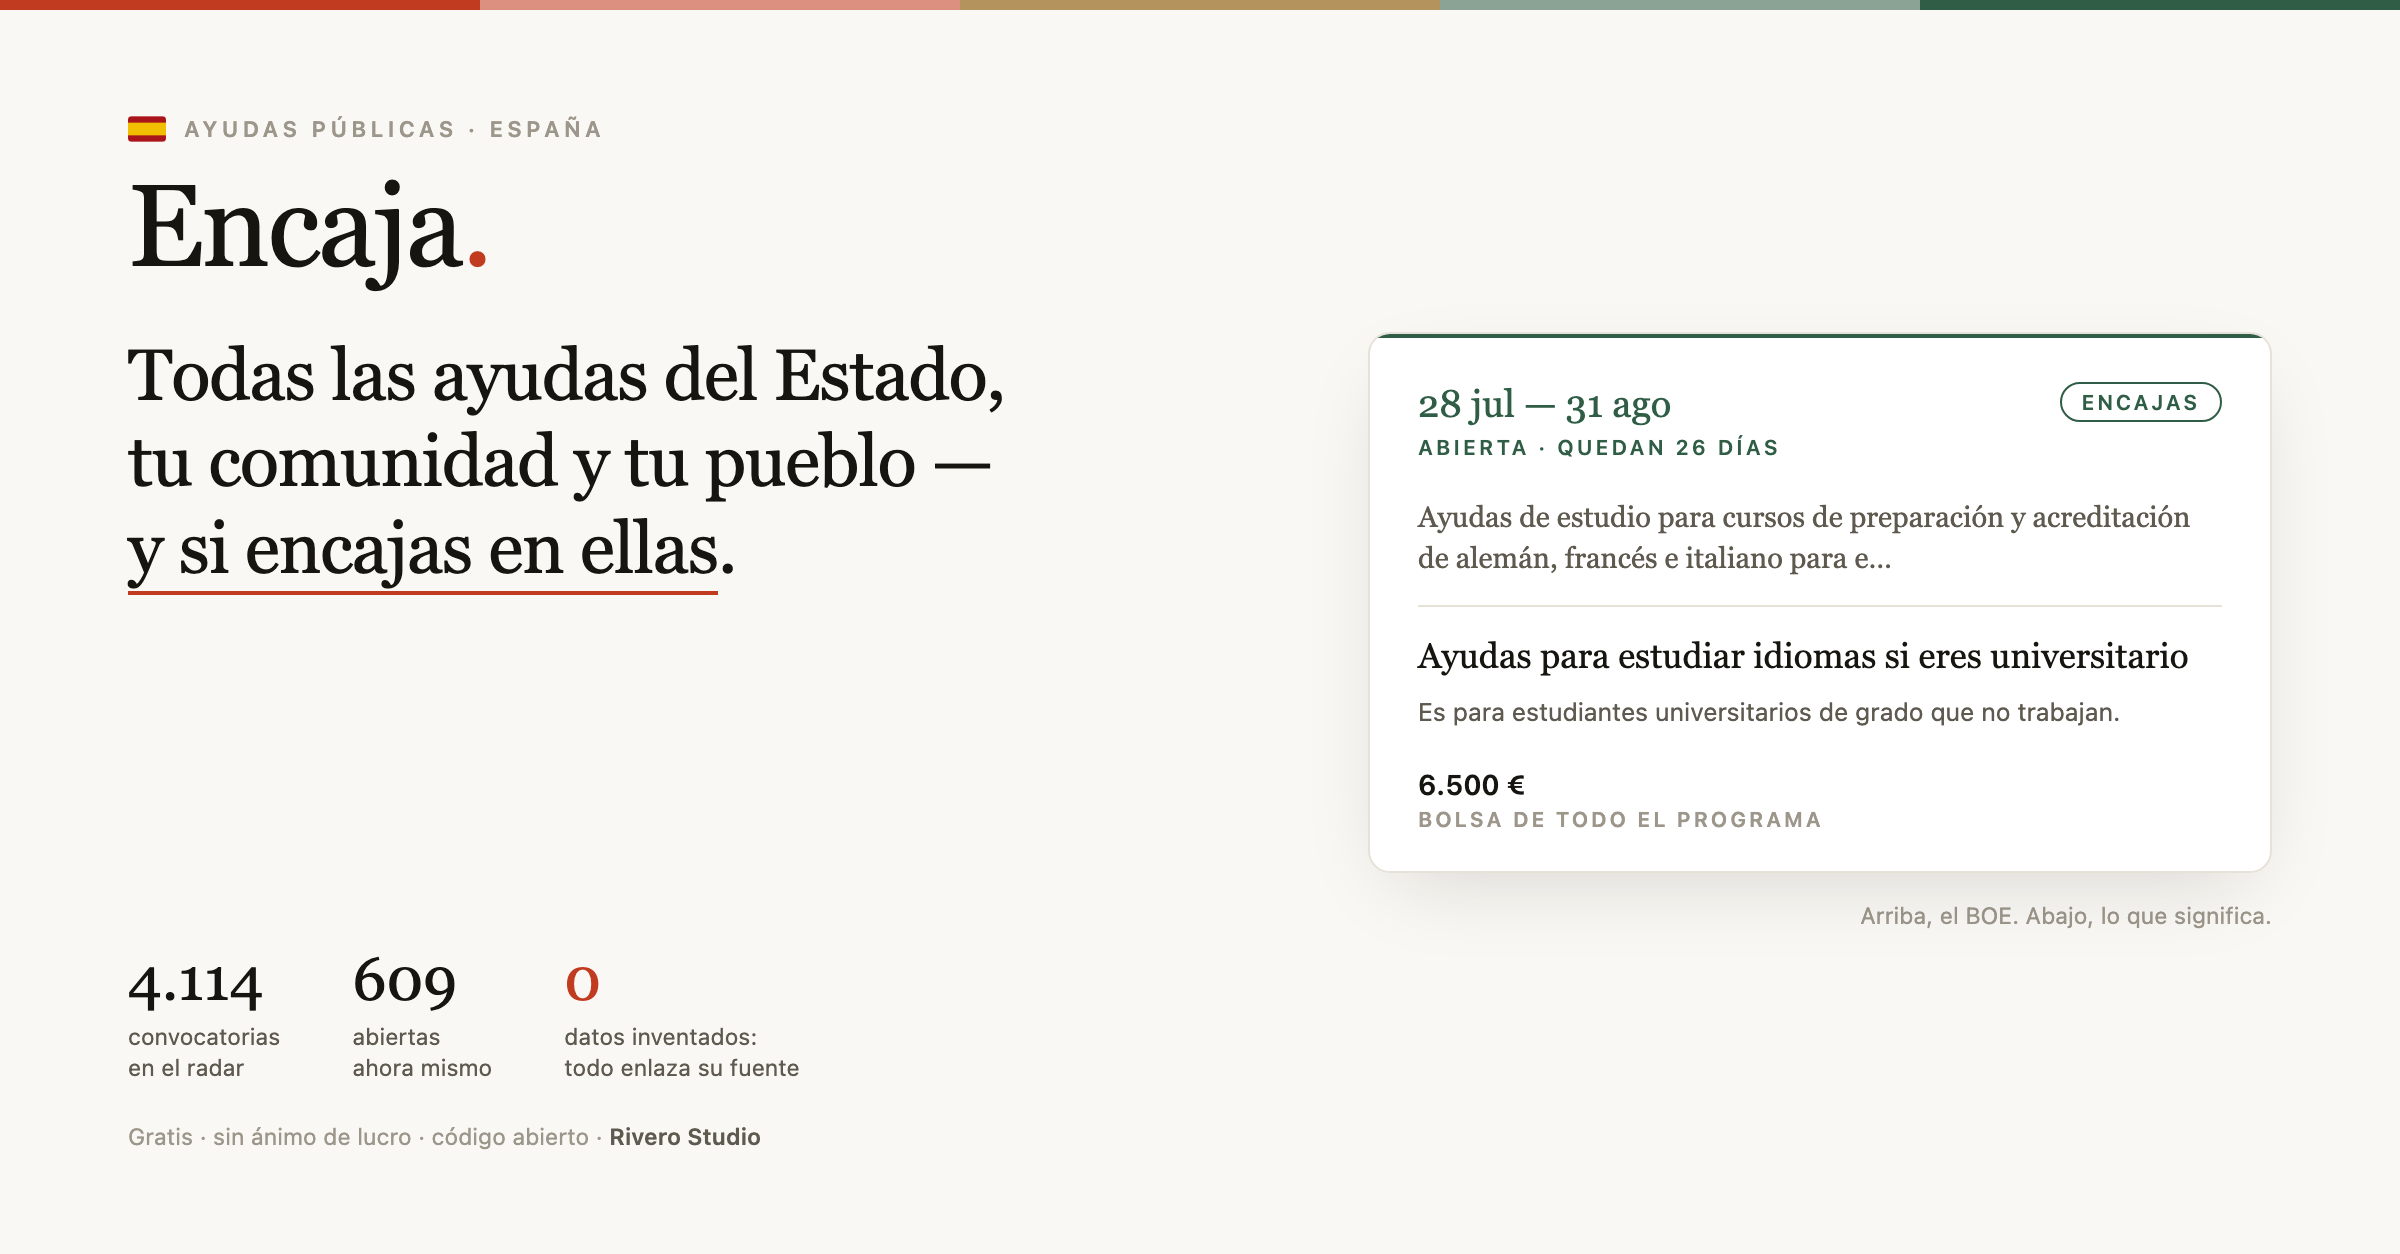
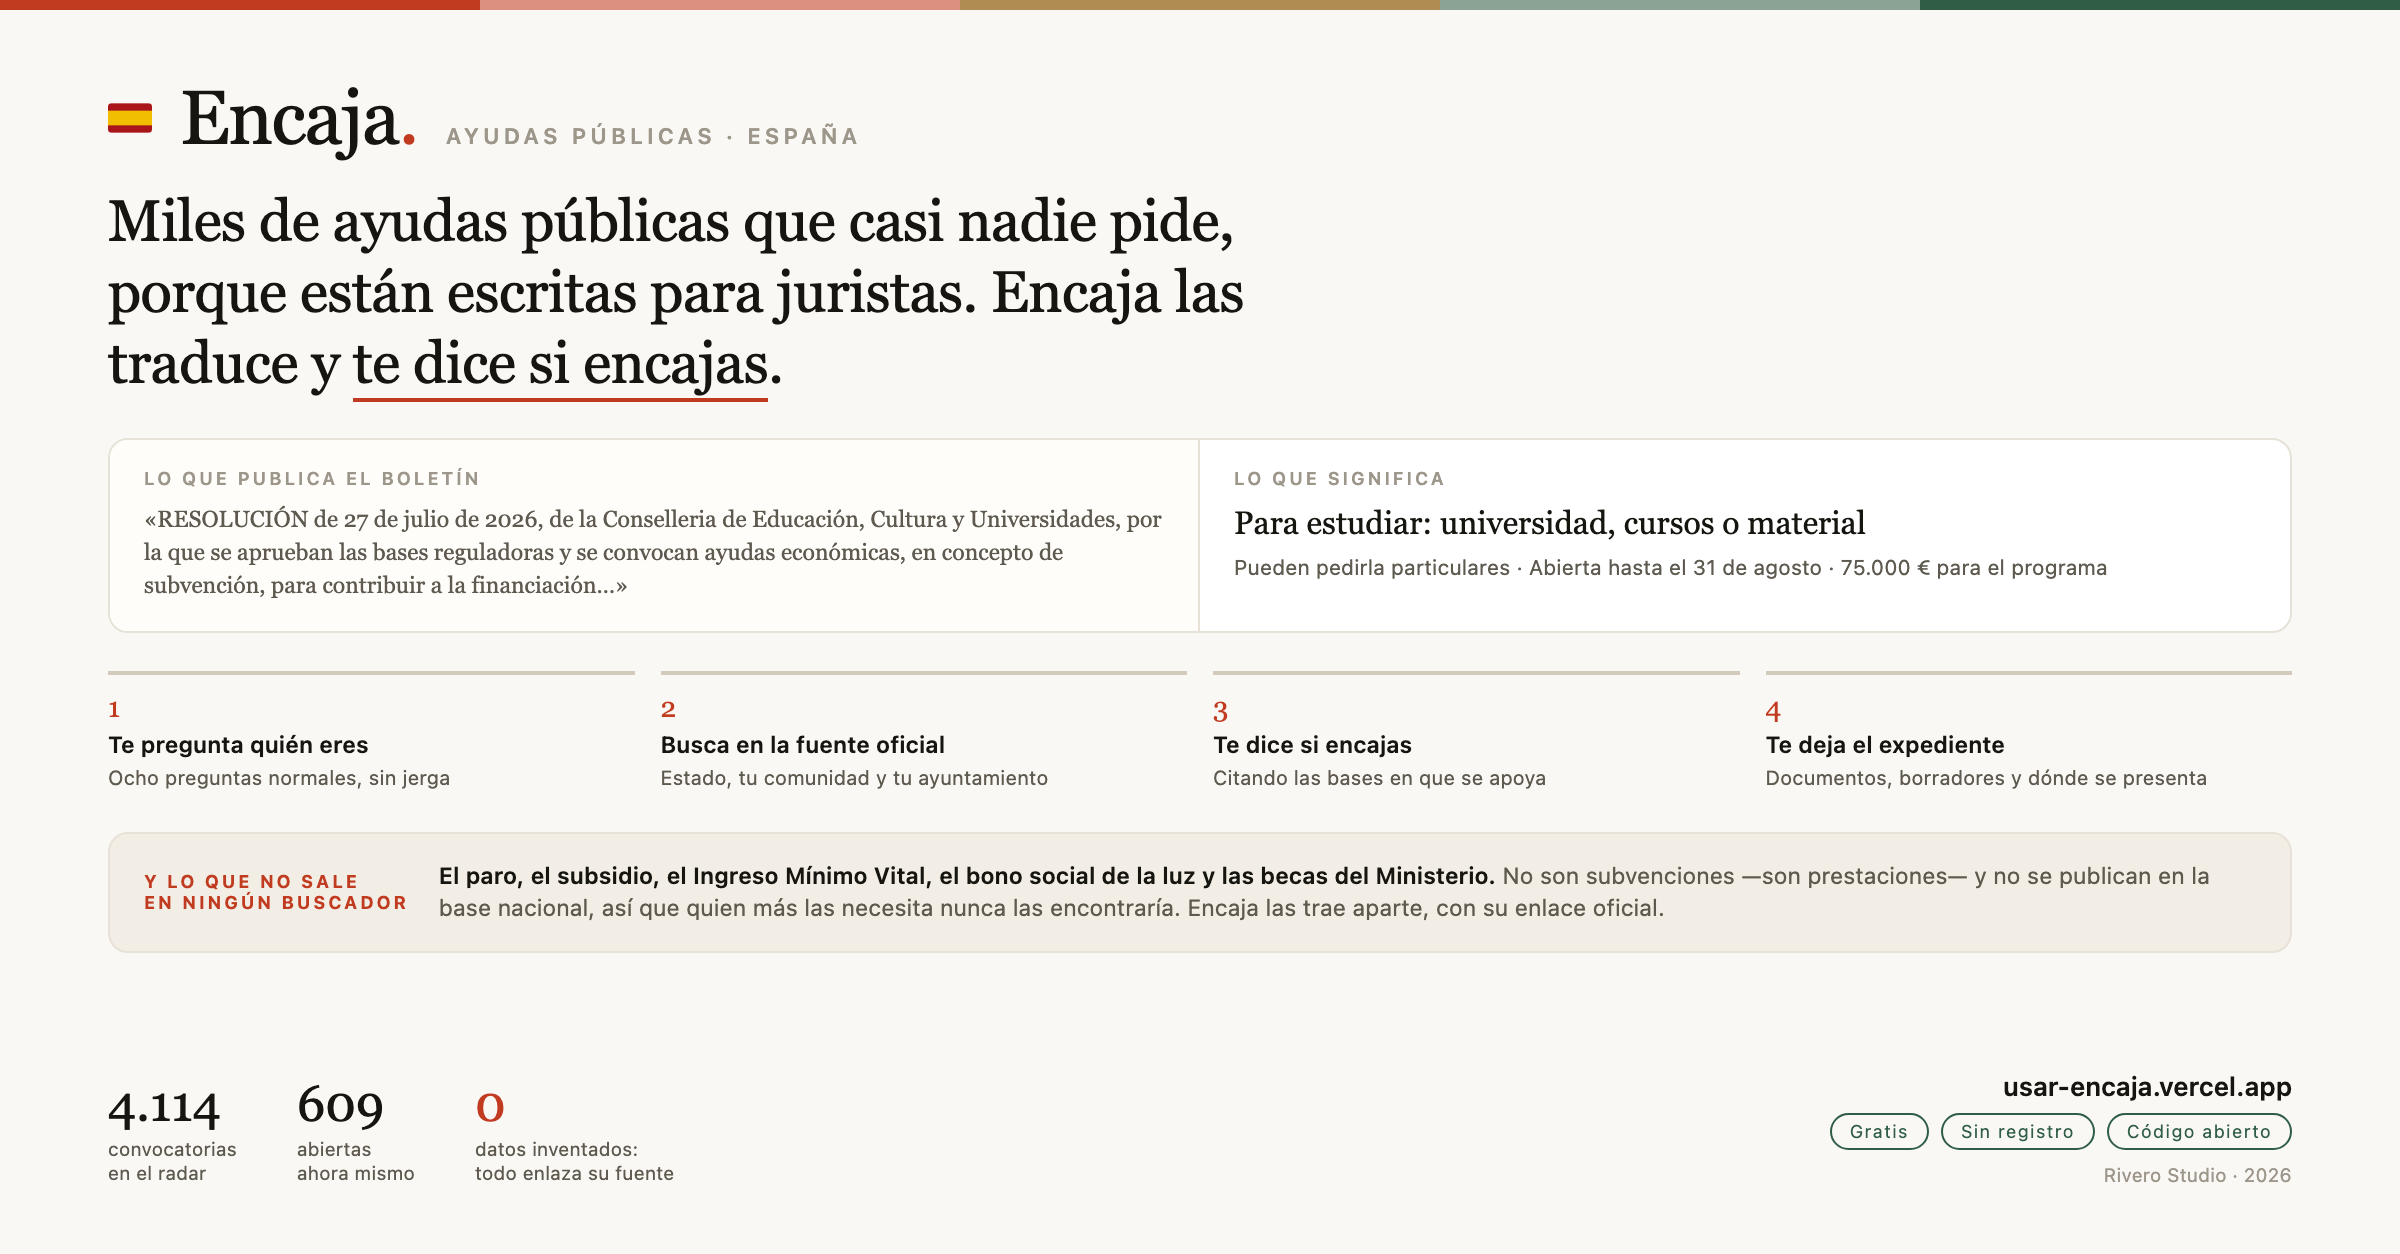
feat: portada nueva, con los cuatro pasos y las prestaciones
La anterior era solo titular y una tarjeta. Esta explica el proyecto entero de
un vistazo: el antes y el despues del BOE, los cuatro pasos, las prestaciones
que no salen en ningun buscador, los numeros y la direccion. Sirve igual para
el proyecto destacado de LinkedIn que como tarjeta al compartir el enlace.

diff --git a/web/index.html b/web/index.html
@@ -14,7 +14,7 @@
 <meta property="og:image" content="https://encaja-ayudas.vercel.app/portada.png">
 <meta property="og:image:width" content="2400">
 <meta property="og:image:height" content="1254">
-<meta property="og:image:alt" content="Encaja — todas las ayudas del Estado, tu comunidad y tu pueblo, y si encajas en ellas.">
+<meta property="og:image:alt" content="Encaja: miles de ayudas públicas que casi nadie pide porque están escritas para juristas. Las traduce y te dice si encajas. 4.114 convocatorias, 609 abiertas.">
 <meta property="og:locale" content="es_ES">
 <meta property="og:site_name" content="Encaja">
 <meta name="twitter:card" content="summary_large_image">
